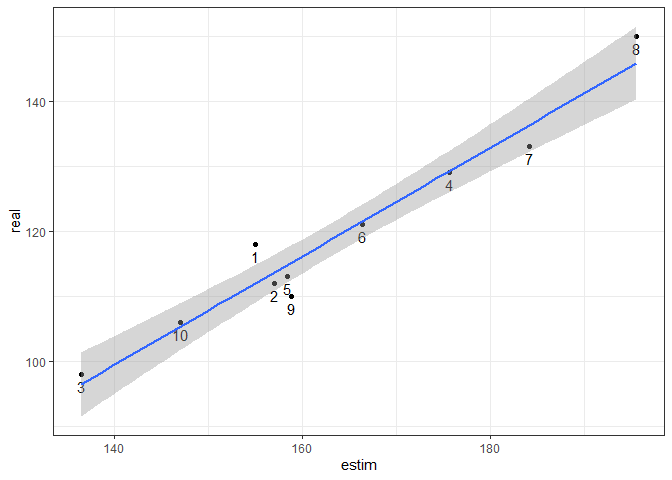
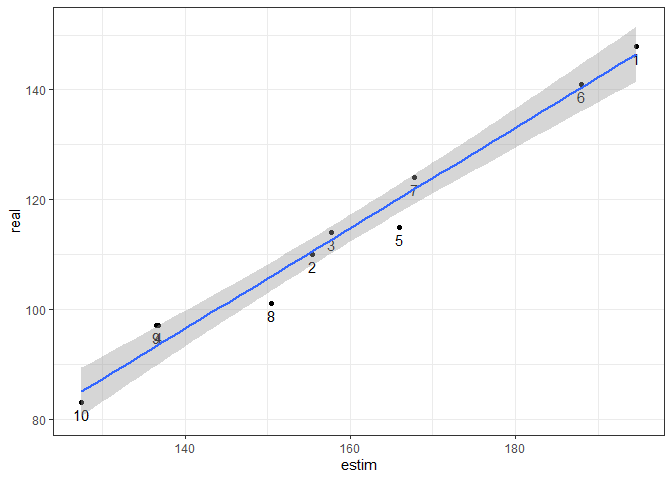
maj

diff --git a/4_report_script_3.md b/4_report_script_3.md
@@ -195,141 +195,141 @@ md_1
     ##  3 chains, each with 10000 iterations (first 3000 discarded), n.thin = 7
     ##  n.sims = 3000 iterations saved
     ##                    mu.vect sd.vect    2.5%     25%     50%     75%   97.5%
-    ## asig[1]              0.757   0.035   0.685   0.735   0.757   0.779   0.824
-    ## asig[2]              0.753   0.035   0.681   0.732   0.754   0.775   0.822
-    ## asig[3]              0.749   0.032   0.679   0.729   0.750   0.769   0.806
-    ## asig[4]              0.750   0.038   0.668   0.729   0.752   0.773   0.820
-    ## asig[5]              0.770   0.041   0.697   0.743   0.765   0.791   0.867
-    ## asig[6]              0.746   0.039   0.658   0.726   0.750   0.771   0.815
-    ## asig[7]              0.748   0.040   0.656   0.727   0.750   0.772   0.821
-    ## asig[8]              0.751   0.047   0.650   0.729   0.752   0.775   0.840
-    ## asig[9]              0.744   0.038   0.659   0.724   0.747   0.768   0.810
-    ## asig[10]             0.758   0.035   0.688   0.736   0.758   0.779   0.828
-    ## csig[1]            155.046   2.059 151.213 153.495 155.015 156.587 158.856
-    ## csig[2]            156.994   2.497 151.695 155.193 157.478 158.978 160.852
-    ## csig[3]            136.508   2.489 131.319 134.726 136.836 138.451 140.378
-    ## csig[4]            175.588   2.430 171.116 173.694 175.643 177.582 179.678
-    ## csig[5]            158.381   2.926 151.871 156.671 159.171 160.295 163.200
-    ## csig[6]            166.335   2.757 161.192 164.283 166.498 168.512 171.245
-    ## csig[7]            184.111   2.347 179.991 182.377 184.076 185.812 188.536
-    ## csig[8]            195.541   2.755 190.842 193.319 195.467 197.672 200.557
-    ## csig[9]            158.830   2.318 152.648 158.014 159.425 160.254 162.135
-    ## csig[10]           147.045   2.581 141.718 145.201 147.447 149.071 151.162
-    ## dsig[1]              0.964   0.594   0.083   0.526   0.883   1.307   2.317
-    ## dsig[2]              1.171   0.716   0.147   0.651   1.065   1.559   2.791
-    ## dsig[3]              1.142   0.715   0.141   0.617   1.034   1.521   2.815
-    ## dsig[4]              1.098   0.693   0.111   0.590   0.995   1.480   2.741
-    ## dsig[5]              1.246   0.745   0.160   0.716   1.119   1.647   3.028
-    ## dsig[6]              1.166   0.772   0.133   0.633   1.046   1.508   3.194
-    ## dsig[7]              1.031   0.644   0.092   0.567   0.938   1.387   2.499
-    ## dsig[8]              1.114   0.728   0.116   0.583   0.996   1.478   2.934
-    ## dsig[9]              1.283   0.786   0.169   0.729   1.146   1.679   3.236
-    ## dsig[10]             1.197   0.739   0.157   0.663   1.092   1.576   3.015
-    ## random_asig_an[1]    0.004   0.029  -0.057  -0.009   0.001   0.015   0.073
-    ## random_asig_an[2]    0.001   0.029  -0.061  -0.011   0.000   0.013   0.064
-    ## random_asig_an[3]   -0.004   0.027  -0.066  -0.015  -0.001   0.008   0.049
-    ## random_asig_an[4]   -0.003   0.032  -0.075  -0.014  -0.001   0.010   0.061
-    ## random_asig_an[5]    0.017   0.037  -0.037  -0.003   0.006   0.031   0.115
-    ## random_asig_an[6]   -0.006   0.031  -0.086  -0.017  -0.001   0.008   0.051
-    ## random_asig_an[7]   -0.005   0.033  -0.082  -0.016  -0.001   0.008   0.057
-    ## random_asig_an[8]   -0.002   0.038  -0.085  -0.014  -0.001   0.011   0.072
-    ## random_asig_an[9]   -0.009   0.031  -0.088  -0.020  -0.003   0.006   0.046
-    ## random_asig_an[10]   0.005   0.029  -0.052  -0.008   0.002   0.017   0.075
-    ## random_csig_an[1]    1.975   3.551  -4.861  -0.469   1.978   4.365   8.905
-    ## random_csig_an[2]    3.923   3.853  -3.905   1.329   4.065   6.680  10.791
-    ## random_csig_an[3]  -16.563   3.753 -24.062 -19.118 -16.464 -13.966  -9.442
-    ## random_csig_an[4]   22.517   3.821  15.187  19.861  22.598  25.159  30.125
-    ## random_csig_an[5]    5.310   4.096  -3.131   2.623   5.578   8.202  12.639
-    ## random_csig_an[6]   13.264   3.974   5.553  10.496  13.279  16.048  21.040
-    ## random_csig_an[7]   31.040   3.751  23.881  28.505  31.106  33.669  38.388
-    ## random_csig_an[8]   42.470   3.995  34.885  39.633  42.408  45.183  50.204
-    ## random_csig_an[9]    5.759   3.699  -2.096   3.406   5.944   8.343  12.466
-    ## random_csig_an[10]  -6.026   3.870 -13.675  -8.666  -5.961  -3.215   1.057
-    ## random_dsig_an[1]   -0.195   0.503  -1.449  -0.371  -0.063   0.051   0.582
-    ## random_dsig_an[2]    0.012   0.486  -0.999  -0.166   0.002   0.174   1.078
-    ## random_dsig_an[3]   -0.017   0.500  -1.082  -0.191  -0.003   0.148   1.070
-    ## random_dsig_an[4]   -0.061   0.481  -1.172  -0.249  -0.020   0.110   0.924
-    ## random_dsig_an[5]    0.087   0.479  -0.823  -0.106   0.019   0.251   1.220
-    ## random_dsig_an[6]    0.007   0.528  -1.028  -0.194  -0.005   0.170   1.245
-    ## random_dsig_an[7]   -0.128   0.496  -1.376  -0.310  -0.039   0.082   0.753
-    ## random_dsig_an[8]   -0.045   0.510  -1.127  -0.231  -0.013   0.118   1.008
-    ## random_dsig_an[9]    0.124   0.522  -0.797  -0.086   0.029   0.274   1.349
-    ## random_dsig_an[10]   0.037   0.491  -0.939  -0.145   0.004   0.198   1.228
-    ## sigma_asig_an        0.004   0.039  -0.077  -0.019   0.006   0.026   0.080
-    ## sigma_csig_an       -6.937  20.305 -32.335 -21.535 -17.233  16.856  29.457
-    ## sigma_dsig_an       -0.038   0.605  -1.250  -0.378  -0.064   0.288   1.227
-    ## deviance           151.616   5.239 143.300 147.950 150.910 154.540 164.660
+    ## asig[1]              0.744   0.048   0.653   0.718   0.742   0.769   0.849
+    ## asig[2]              0.747   0.038   0.678   0.723   0.746   0.769   0.827
+    ## asig[3]              0.742   0.039   0.666   0.719   0.742   0.766   0.824
+    ## asig[4]              0.743   0.035   0.673   0.721   0.742   0.766   0.816
+    ## asig[5]              0.751   0.040   0.678   0.726   0.748   0.774   0.839
+    ## asig[6]              0.733   0.044   0.631   0.710   0.736   0.761   0.816
+    ## asig[7]              0.726   0.043   0.622   0.704   0.730   0.754   0.799
+    ## asig[8]              0.750   0.038   0.678   0.725   0.747   0.772   0.830
+    ## asig[9]              0.737   0.033   0.667   0.717   0.738   0.759   0.799
+    ## asig[10]             0.725   0.038   0.639   0.701   0.729   0.750   0.790
+    ## csig[1]            194.706   2.447 190.273 192.944 194.682 196.533 199.212
+    ## csig[2]            155.388   2.538 150.535 153.513 155.608 157.363 159.573
+    ## csig[3]            157.782   2.239 152.365 156.575 158.296 159.398 161.019
+    ## csig[4]            136.766   2.369 131.682 135.177 137.013 138.577 140.624
+    ## csig[5]            165.921   2.280 161.456 164.322 166.007 167.654 169.965
+    ## csig[6]            187.948   2.574 182.139 186.447 188.410 189.776 192.184
+    ## csig[7]            167.732   2.819 162.142 165.835 167.960 169.514 173.421
+    ## csig[8]            150.431   1.807 146.266 149.564 150.484 151.416 153.911
+    ## csig[9]            136.559   2.513 131.243 134.873 136.907 138.406 140.546
+    ## csig[10]           127.432   2.321 122.146 126.061 127.847 129.116 130.967
+    ## dsig[1]              1.437   0.757   0.169   0.899   1.369   1.887   3.107
+    ## dsig[2]              1.493   0.758   0.215   0.955   1.433   1.955   3.149
+    ## dsig[3]              1.678   0.815   0.327   1.106   1.588   2.147   3.559
+    ## dsig[4]              1.529   0.778   0.232   0.983   1.469   1.999   3.208
+    ## dsig[5]              1.381   0.709   0.199   0.871   1.345   1.822   2.939
+    ## dsig[6]              1.650   0.807   0.312   1.082   1.575   2.112   3.449
+    ## dsig[7]              1.697   0.939   0.297   1.070   1.548   2.146   4.031
+    ## dsig[8]              1.747   0.785   0.496   1.198   1.646   2.188   3.553
+    ## dsig[9]              1.598   0.830   0.288   1.021   1.508   2.055   3.489
+    ## dsig[10]             1.659   0.893   0.294   1.059   1.540   2.112   3.818
+    ## random_asig_an[1]    0.005   0.040  -0.074  -0.011   0.001   0.018   0.099
+    ## random_asig_an[2]    0.008   0.033  -0.057  -0.007   0.003   0.021   0.085
+    ## random_asig_an[3]    0.002   0.032  -0.064  -0.011   0.000   0.016   0.076
+    ## random_asig_an[4]    0.003   0.030  -0.061  -0.010   0.001   0.016   0.074
+    ## random_asig_an[5]    0.011   0.034  -0.047  -0.006   0.004   0.026   0.096
+    ## random_asig_an[6]   -0.007   0.036  -0.098  -0.021  -0.002   0.010   0.060
+    ## random_asig_an[7]   -0.013   0.036  -0.110  -0.026  -0.005   0.004   0.044
+    ## random_asig_an[8]    0.010   0.033  -0.048  -0.007   0.004   0.024   0.091
+    ## random_asig_an[9]   -0.003   0.029  -0.070  -0.016  -0.001   0.011   0.058
+    ## random_asig_an[10]  -0.015   0.034  -0.101  -0.029  -0.007   0.002   0.042
+    ## random_csig_an[1]   43.129   3.741  35.683  40.626  43.140  45.600  50.408
+    ## random_csig_an[2]    3.812   3.770  -3.641   1.285   3.821   6.460  10.990
+    ## random_csig_an[3]    6.206   3.572  -0.988   3.841   6.337   8.654  12.875
+    ## random_csig_an[4]  -14.810   3.658 -22.168 -17.225 -14.832 -12.343  -7.851
+    ## random_csig_an[5]   14.345   3.651   7.018  11.908  14.320  16.852  21.090
+    ## random_csig_an[6]   36.371   3.835  28.407  33.836  36.493  39.024  43.565
+    ## random_csig_an[7]   16.155   3.935   8.422  13.639  16.237  18.752  23.821
+    ## random_csig_an[8]   -1.145   3.304  -7.799  -3.229  -1.081   1.007   5.160
+    ## random_csig_an[9]  -15.018   3.764 -22.489 -17.593 -14.951 -12.434  -7.763
+    ## random_csig_an[10] -24.145   3.586 -31.504 -26.562 -24.018 -21.559 -17.461
+    ## random_dsig_an[1]   -0.175   0.638  -1.684  -0.418  -0.079   0.120   1.027
+    ## random_dsig_an[2]   -0.119   0.634  -1.602  -0.369  -0.042   0.162   1.128
+    ## random_dsig_an[3]    0.067   0.615  -1.154  -0.199   0.022   0.311   1.496
+    ## random_dsig_an[4]   -0.083   0.619  -1.492  -0.342  -0.032   0.183   1.146
+    ## random_dsig_an[5]   -0.230   0.639  -1.766  -0.492  -0.108   0.101   0.846
+    ## random_dsig_an[6]    0.038   0.601  -1.182  -0.213   0.018   0.279   1.328
+    ## random_dsig_an[7]    0.085   0.725  -1.254  -0.216   0.007   0.313   1.806
+    ## random_dsig_an[8]    0.135   0.579  -1.012  -0.131   0.057   0.366   1.448
+    ## random_dsig_an[9]   -0.014   0.623  -1.358  -0.290  -0.006   0.231   1.340
+    ## random_dsig_an[10]   0.048   0.668  -1.276  -0.234   0.003   0.270   1.725
+    ## sigma_asig_an       -0.010   0.041  -0.090  -0.034  -0.011   0.015   0.073
+    ## sigma_csig_an        7.866  22.356 -31.190 -18.889  19.119  23.951  34.860
+    ## sigma_dsig_an        0.263   0.724  -1.172  -0.179   0.283   0.676   1.715
+    ## deviance           158.332   5.674 149.263 154.215 157.622 161.700 172.237
     ##                     Rhat n.eff
-    ## asig[1]            1.001  3000
+    ## asig[1]            1.003  1500
     ## asig[2]            1.001  3000
-    ## asig[3]            1.001  3000
-    ## asig[4]            1.002  1600
-    ## asig[5]            1.003  1100
-    ## asig[6]            1.001  3000
-    ## asig[7]            1.002  1900
-    ## asig[8]            1.006  3000
-    ## asig[9]            1.001  3000
-    ## asig[10]           1.001  3000
+    ## asig[3]            1.003   710
+    ## asig[4]            1.001  3000
+    ## asig[5]            1.002  1400
+    ## asig[6]            1.002  1400
+    ## asig[7]            1.001  3000
+    ## asig[8]            1.004   570
+    ## asig[9]            1.001  2900
+    ## asig[10]           1.003  1500
     ## csig[1]            1.001  3000
     ## csig[2]            1.001  3000
-    ## csig[3]            1.001  2200
-    ## csig[4]            1.002  1200
+    ## csig[3]            1.001  3000
+    ## csig[4]            1.001  2600
     ## csig[5]            1.001  3000
-    ## csig[6]            1.002  2000
+    ## csig[6]            1.001  3000
     ## csig[7]            1.001  3000
     ## csig[8]            1.001  3000
     ## csig[9]            1.001  3000
-    ## csig[10]           1.003   760
-    ## dsig[1]            1.001  3000
-    ## dsig[2]            1.003  3000
-    ## dsig[3]            1.002  3000
-    ## dsig[4]            1.001  3000
-    ## dsig[5]            1.001  3000
-    ## dsig[6]            1.001  2700
-    ## dsig[7]            1.002  2600
-    ## dsig[8]            1.002  1600
+    ## csig[10]           1.001  3000
+    ## dsig[1]            1.005  1800
+    ## dsig[2]            1.001  3000
+    ## dsig[3]            1.002  2400
+    ## dsig[4]            1.005  2600
+    ## dsig[5]            1.006  1100
+    ## dsig[6]            1.001  3000
+    ## dsig[7]            1.004  3000
+    ## dsig[8]            1.001  3000
     ## dsig[9]            1.001  3000
-    ## dsig[10]           1.001  2200
-    ## random_asig_an[1]  1.003  3000
-    ## random_asig_an[2]  1.004  3000
-    ## random_asig_an[3]  1.005  2800
-    ## random_asig_an[4]  1.006  1000
-    ## random_asig_an[5]  1.007  1100
-    ## random_asig_an[6]  1.003  3000
-    ## random_asig_an[7]  1.007  1400
-    ## random_asig_an[8]  1.012  2600
-    ## random_asig_an[9]  1.006  1600
-    ## random_asig_an[10] 1.002  3000
-    ## random_csig_an[1]  1.003  1200
-    ## random_csig_an[2]  1.002  1800
-    ## random_csig_an[3]  1.006   610
-    ## random_csig_an[4]  1.007   500
-    ## random_csig_an[5]  1.003   930
-    ## random_csig_an[6]  1.011   460
-    ## random_csig_an[7]  1.006   620
-    ## random_csig_an[8]  1.004  1000
-    ## random_csig_an[9]  1.006   650
-    ## random_csig_an[10] 1.008   350
-    ## random_dsig_an[1]  1.001  3000
-    ## random_dsig_an[2]  1.005  2200
-    ## random_dsig_an[3]  1.002  1600
-    ## random_dsig_an[4]  1.001  3000
-    ## random_dsig_an[5]  1.005  3000
-    ## random_dsig_an[6]  1.001  3000
-    ## random_dsig_an[7]  1.002  1700
-    ## random_dsig_an[8]  1.001  2200
-    ## random_dsig_an[9]  1.003  3000
-    ## random_dsig_an[10] 1.002  2700
-    ## sigma_asig_an      1.141    20
-    ## sigma_csig_an      6.887     3
-    ## sigma_dsig_an      1.099    25
-    ## deviance           1.001  2600
+    ## dsig[10]           1.002  1800
+    ## random_asig_an[1]  1.005  3000
+    ## random_asig_an[2]  1.001  3000
+    ## random_asig_an[3]  1.002  1300
+    ## random_asig_an[4]  1.001  3000
+    ## random_asig_an[5]  1.002  2200
+    ## random_asig_an[6]  1.002  2700
+    ## random_asig_an[7]  1.001  3000
+    ## random_asig_an[8]  1.002  1100
+    ## random_asig_an[9]  1.001  3000
+    ## random_asig_an[10] 1.003  3000
+    ## random_csig_an[1]  1.001  3000
+    ## random_csig_an[2]  1.002  1200
+    ## random_csig_an[3]  1.002  2100
+    ## random_csig_an[4]  1.002  1100
+    ## random_csig_an[5]  1.002  2000
+    ## random_csig_an[6]  1.002  1500
+    ## random_csig_an[7]  1.002  1600
+    ## random_csig_an[8]  1.001  2000
+    ## random_csig_an[9]  1.001  2700
+    ## random_csig_an[10] 1.002  2400
+    ## random_dsig_an[1]  1.005  1500
+    ## random_dsig_an[2]  1.005  3000
+    ## random_dsig_an[3]  1.003  3000
+    ## random_dsig_an[4]  1.005  3000
+    ## random_dsig_an[5]  1.007  1600
+    ## random_dsig_an[6]  1.005  2900
+    ## random_dsig_an[7]  1.017   550
+    ## random_dsig_an[8]  1.008  1100
+    ## random_dsig_an[9]  1.002  2900
+    ## random_dsig_an[10] 1.001  2200
+    ## sigma_asig_an      1.012   190
+    ## sigma_csig_an      7.094     3
+    ## sigma_dsig_an      1.057    40
+    ## deviance           1.001  3000
     ## 
     ## For each parameter, n.eff is a crude measure of effective sample size,
     ## and Rhat is the potential scale reduction factor (at convergence, Rhat=1).
     ## 
     ## DIC info (using the rule, pD = var(deviance)/2)
-    ## pD = 13.7 and DIC = 165.3
+    ## pD = 16.1 and DIC = 174.4
     ## DIC is an estimate of expected predictive error (lower deviance is better).
 
 ### Quickly compare mean xmid with ‘real pheno’

diff --git a/README.md b/README.md
@@ -1,34 +1,31 @@
-# How reliable is the estimated phenology ? 
-
+# How reliable is the estimated phenology ?
 
 ## Introduction
 
-We developped a method, based on the study of the productivity (proportion of juveniles among all caught individuals), which allow the estimation of : 
-- the breeding timing (xmid parameter, proxy for phenology)
-- the breeding success (asymptote parameter, final proportion of juvenile in the sampled population)
-- the variance in breeding phenology (scale parameter) 
+We developped a method, based on the study of the productivity (proportion of juveniles among all caught individuals), which allow the estimation of : - the breeding timing (xmid parameter, proxy for phenology) - the breeding success (asymptote parameter, final proportion of juvenile in the sampled population) - the variance in breeding phenology (scale parameter)
 
-The aim of this project is to investigate how well estimated is the phenology (using sigmoid bayesian approach) when parameters associated with the phenology (mean and variance of laying dates, survival, breeding success, number of breeding attempts ...) vary. For this, we want to simulate breeding phenology of a (bird) population, sample it, according to a specified sampling design, and then compare the estimated values with the simulated ones. 
+The aim of this project is to investigate how well estimated is the phenology (using sigmoid bayesian approach) when parameters associated with the phenology (mean and variance of laying dates, survival, breeding success, number of breeding attempts ...) vary. For this, we want to simulate breeding phenology of a (bird) population, sample it, according to a specified sampling design, and then compare the estimated values with the simulated ones.
 
 (Define space, time)
 
-## 1 - Simulate fledging and capture data 
+## 1 - Simulate fledging and capture data
 
 In a study area, corresponding to the "sample area" of a capture site :
 
-- 3-5 breeding pairs (capturable during all the study period)
+-   3-5 breeding pairs (capturable during all the study period)
 
-- Each couple lays at a time t (sample from a normal distribution N($\mu_{site}$, $\sigma_{site}$), $N_{eggs}$ sample from a Poisson distribution Pois($\lambda_{eggs}$).
+-   Each couple lays at a time t (sample from a normal distribution N($\mu_{site}$, $\sigma_{site}$), $N_{eggs}$ sample from a Poisson distribution Pois($\lambda_{eggs}$).
 
-- Each egg has a probability $P_{fledge}$ to fledge which depends on the laying date. 
+-   Each egg has a probability $P_{fledge}$ to fledge which depends on the laying date.
 
-- Once fledge, survival of juveniles may evolve according to time (Naef‐Daenzeret al., 2001. Journal of Animal ecology, 70(5), 730-738.)
+-   Once fledge, survival of juveniles may evolve according to time (Naef‐Daenzeret al., 2001. Journal of Animal ecology, 70(5), 730-738.)
+
+-   Still need to implement:
+
+    -   varying clutch size with laying date
+
+    -   
 
 Simulating CES capture protocol would just correspond in sampling $N_{sessions}$ times (every 2 weeks for instance) all the available individuals (juveniles + adults).
 
 Save data and apply model. (different version of the model)
-
-
-
-
-
